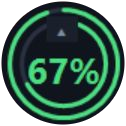
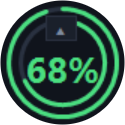
Refresh v0.5.0 README and downloads

diff --git a/README.md b/README.md
@@ -1,16 +1,18 @@
 # Codex Usage Widget
 
-一个轻量、无边框的 Windows 桌面小组件，用于实时查看本机 Codex 的今日 Token，以及 5 小时和周额度。窗口支持分级响应式布局：完整面板、窄面板、仅今日 Token 面板，以及最小圆形额度球。
+一个轻量、无边框的 Windows 桌面小组件，用于实时查看本机 Codex 的今日 Token、5 小时额度和周额度。所有数据只从本机 Codex 会话记录读取，不需要 API Key，也不会上传会话内容。
 
 - 今日 Token 总量
 - Input / Output / Cached Token 明细
-- 5 小时额度与周额度的剩余、已用比例
-- 两种额度各自的重置时间
+- 5 小时额度与周额度的剩余比例、已用比例和独立重置时间
+- 完整面板、窄面板、仅今日 Token 面板和双环圆形额度球
+- CN/EN 中英文切换、五套配色主题和窗口置顶
+- 系统托盘后台运行，并记住用户选择的关闭行为
 
 <table>
   <tr>
     <th>完整面板</th>
-    <th>圆形额度球(界面缩小后)</th>
+    <th>圆形额度球（界面缩小后）</th>
   </tr>
   <tr>
     <td><img src="docs/screenshot.png" alt="Codex Usage Widget 双额度完整面板" width="354"></td>
@@ -20,15 +22,22 @@
 
 ## Download for Windows
 
-**[Download Codex Usage Widget v0.4.0](https://github.com/yizhengarcanelec/codex-usage-widget/raw/main/download/Codex-Usage-Widget-v0.4.0-win-portable.zip)**
+**[Download Codex Usage Widget v0.5.0](https://github.com/yizhengarcanelec/codex-usage-widget/raw/main/download/Codex-Usage-Widget-v0.5.0-win-portable.zip)**
 
-下载 ZIP 后解压，双击 `GPTUsageWidget.exe` 即可。无需安装，也不需要 API Key。
+下载 ZIP 后解压，双击 `GPTUsageWidget.exe` 即可。便携包内含程序和使用说明，无需安装。
 
[2 lines of base64/hex data omitted]
 
-## 使用
+## v0.5.0 更新
 
-从 GitHub Actions 的构建产物或 Releases 下载便携包，解压后双击 `GPTUsageWidget.exe`。
+- 同时识别 Codex 的 5 小时额度窗口和周额度窗口，分别显示剩余、已用和重置时间。
+- 圆形模式升级为双环显示：内环为 5 小时额度，外环为周额度。
+- 圆形中心显示两种额度中较低的剩余比例，便于快速判断当前更紧张的额度。
+- 旧日志暂时缺少某一种额度记录时，对应位置显示 `--%`，不会使用 Token 数量推算额度。
+
+## 功能与操作
+
+从上方链接、GitHub Actions 构建产物或 Releases 下载便携包，解压后双击 `GPTUsageWidget.exe`。
 
 - 每 5 秒自动刷新。
 - 拖动窗口空白区域可移动。
@@ -45,6 +54,13 @@ SHA-256：`5EFE249CEB663587FE5F00F366032C0E25B9A70F26BC2CC87825E6A8086F86DF`
 
 也可以使用 `GPTUsageWidget.exe --compact` 直接以圆形额度球启动。
 
+## 额度显示说明
+
+- 完整面板中的“5 小时剩余”和“本周剩余”是两个彼此独立的额度窗口。
+- 圆形额度球的内环代表 5 小时额度，外环代表周额度；中心数字取两者中较低的剩余比例。
+- 鼠标悬停圆球后，会显示两个额度窗口各自的重置日期。
+- 额度百分比来自 Codex 写入本地会话记录的限额数据，不代表可换算成固定 Token 数量的余额。
+
 ## 数据与隐私
 
 程序只读取当前用户目录下的 Codex 本地会话记录：
@@ -54,7 +70,7 @@ SHA-256：`5EFE249CEB663587FE5F00F366032C0E25B9A70F26BC2CC87825E6A8086F86DF`
 
 程序不需要 API Key，不联网，也不会上传会话内容。今日 Token 按本地日历日汇总；如果本机缺少当天较早的记录，状态栏会显示 `partial history`。
 
-5 小时额度与周额度来自 Codex 写入本地会话事件的两个独立限额窗口。程序不会用今日 Token 数量反推额度；旧日志只有一种窗口时，另一项会显示 `--%`。
+程序不会使用今日 Token 数量反推额度。如果本机缺少某个额度窗口的最新记录，对应位置会显示 `--%`。
 
 ## 兼容性
 
